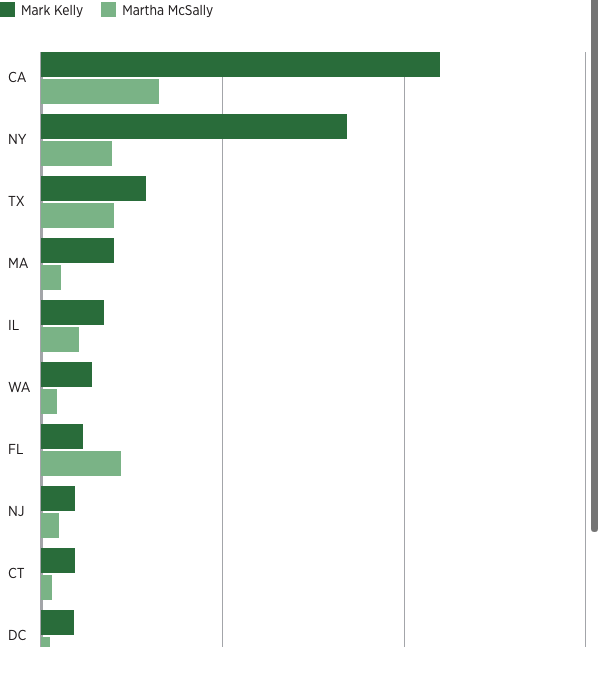
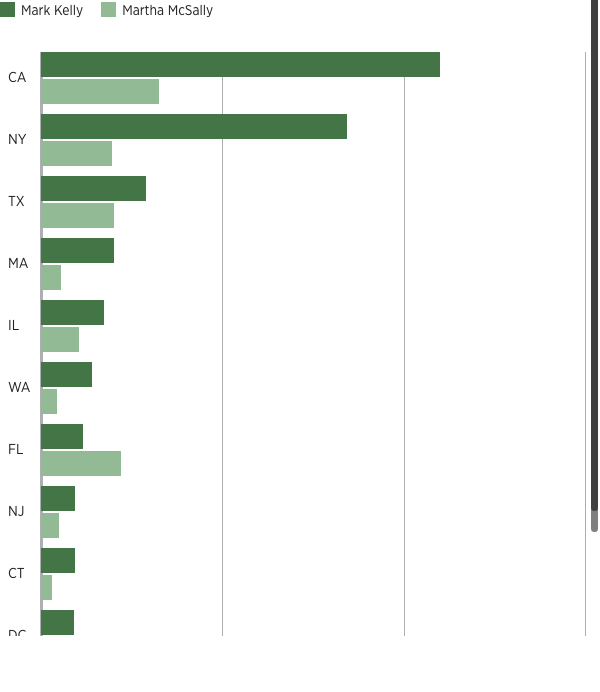
edit to arizona chart

diff --git a/az-fec-out-20200208/graphic.js b/az-fec-out-20200208/graphic.js
@@ -175,36 +175,36 @@ var renderGroupedBarChart = function(config) {
     .attr("transform", `translate(${margins.left},${margins.top})`);
 
   // Create D3 axes.
-  var xAxis = d3
-    .axisBottom()
-    .scale(xScale)
-    .ticks(ticksX)
-    .tickFormat(function (d, i) {
-      if (d == ticksX) {
-        return "$" + d.toFixed(0) + "M" //use this line to create labels on the last x-axis unit, use .toFixed() function to specify decimals
-      } else {
-        return d.toFixed(0) //use the .toFixed() function to specify decimals for all other units
-      }
-    })
-  // Render axes to chart.
-  chartElement
-    .append("g")
-    .attr("class", "x axis")
-    .attr("transform", makeTranslate(0, chartHeight))
-    .call(xAxis);
+  // var xAxis = d3
+  //   .axisBottom()
+  //   .scale(xScale)
+  //   .ticks(ticksX)
+  //   .tickFormat(function (d, i) {
+  //     if (d == ticksX) {
+  //       return "$" + d.toFixed(0) + "M" //use this line to create labels on the last x-axis unit, use .toFixed() function to specify decimals
+  //     } else {
+  //       return d.toFixed(0) //use the .toFixed() function to specify decimals for all other units
+  //     }
+  //   })
+  // // Render axes to chart.
+  // chartElement
+  //   .append("g")
+  //   .attr("class", "x axis")
+  //   .attr("transform", makeTranslate(0, chartHeight))
+  //   .call(xAxis);
 
-  // Render grid to chart.
-  var xAxisGrid = () => xAxis;
+  // // Render grid to chart.
+  // var xAxisGrid = () => xAxis;
 
-  chartElement
-    .append("g")
-    .attr("class", "x grid")
-    .attr("transform", makeTranslate(0, chartHeight))
-    .call(
-      xAxisGrid()
-        .tickSize(-chartHeight, 0, 0)
-        .tickFormat("")
-    );
+  // chartElement
+  //   .append("g")
+  //   .attr("class", "x grid")
+  //   .attr("transform", makeTranslate(0, chartHeight))
+  //   .call(
+  //     xAxisGrid()
+  //       .tickSize(-chartHeight, 0, 0)
+  //       .tickFormat("")
+  //   );
 
   // Render bars to chart.
   var barGroups = chartElement
@@ -275,59 +275,59 @@ var renderGroupedBarChart = function(config) {
     .text(d => d.key);
 
   // Render bar values.
-  // barGroups
-  //   .append("g")
-  //   .attr("class", "value")
-  //   .selectAll("text")
-  //   .data(d => d.values)
-  //   .enter()
-  //   .append("text")
-  //   .text(function(d) {
-  //     var v = d[valueColumn].toFixed(1).replace(/\B(?=(\d{3})+(?!\d))/g, ","); //add comma to thousands
+  barGroups
+    .append("g")
+    .attr("class", "value")
+    .selectAll("text")
+    .data(d => d.values)
+    .enter()
+    .append("text")
+    .text(function(d) {
+      var v = d[valueColumn].toFixed(1).replace(/\B(?=(\d{3})+(?!\d))/g, ","); //add comma to thousands
 
-  //     // if (d[valueColumn] > 0 && v == 0) {
-  //     //   v = "<1";
-  //     // }
+      // if (d[valueColumn] > 0 && v == 0) {
+      //   v = "<1";
+      // }
 
-  //     //add measure like % or $ or M in the below line like: + "%"
-  //     //it will appear for all the values except the first one.
-  //     return v;
-  //   })
-  //   .attr("x", d => xScale(d[valueColumn]))
-  //   .attr("y", (d, i) => (i ? barHeight * i + barGapInner : 0))
-  //   .attr("dx", function(d) {
-  //     var xStart = xScale(d[valueColumn]);
-  //     var textWidth = this.getComputedTextLength();
+      //add measure like % or $ or M in the below line like: + "%"
+      //it will appear for all the values except the first one.
+      return v;
+    })
+    .attr("x", d => xScale(d[valueColumn]))
+    .attr("y", (d, i) => (i ? barHeight * i + barGapInner : 0))
+    .attr("dx", function(d) {
+      var xStart = xScale(d[valueColumn]);
+      var textWidth = this.getComputedTextLength();
 
-  //     // Negative case
-  //     if (d[valueColumn] < 0) {
-  //       var outsideOffset = -(valueGap + textWidth);
+      // Negative case
+      if (d[valueColumn] < 0) {
+        var outsideOffset = -(valueGap + textWidth);
 
-  //       if (xStart + outsideOffset < 0) {
-  //         d3.select(this).classed("in", true);
-  //         return valueGap;
-  //       } else {
-  //         d3.select(this).classed("out", true);
-  //         return outsideOffset;
-  //       }
-  //       // Positive case
-  //     } else {
-  //       if (xStart + valueGap + textWidth > chartWidth) {
-  //         d3.select(this).classed("in", true);
-  //         return - (valueGap + textWidth); // adding `+ #` pushes in-classed text further in
-  //       } else {
-  //         d3.select(this).classed("out", true);
-  //         return valueGap;
-  //       }
-  //     }
-  //   })
-  //   .attr("dy", barHeight / 2 + 4);
+        if (xStart + outsideOffset < 0) {
+          d3.select(this).classed("in", true);
+          return valueGap;
+        } else {
+          d3.select(this).classed("out", true);
+          return outsideOffset;
+        }
+        // Positive case
+      } else {
+        if (xStart + valueGap + textWidth > chartWidth) {
+          d3.select(this).classed("in", true);
+          return - (valueGap + textWidth); // adding `+ #` pushes in-classed text further in
+        } else {
+          d3.select(this).classed("out", true);
+          return valueGap;
+        }
+      }
+    })
+    .attr("dy", barHeight / 2 + 4);
 
   //   //First bar label/value text is different, we add $ and/or M only to first one.
-  //   d3.select('g.bars:nth-of-type(1) .value text:nth-of-type(1)')
-  //       .text(function(d) {
-  //           return "$" + d[valueColumn].toFixed(1).replace(/\B(?=(\d{3})+(?!\d))/g, ",") + 'M'; //the regex adds the comma we want
-  //       });
+    d3.select('g.bars:nth-of-type(1) .value text:nth-of-type(1)')
+        .text(function(d) {
+            return "$" + d[valueColumn].toFixed(1).replace(/\B(?=(\d{3})+(?!\d))/g, ",") + 'M'; //the regex adds the comma we want
+        });
 };
 
 /*
